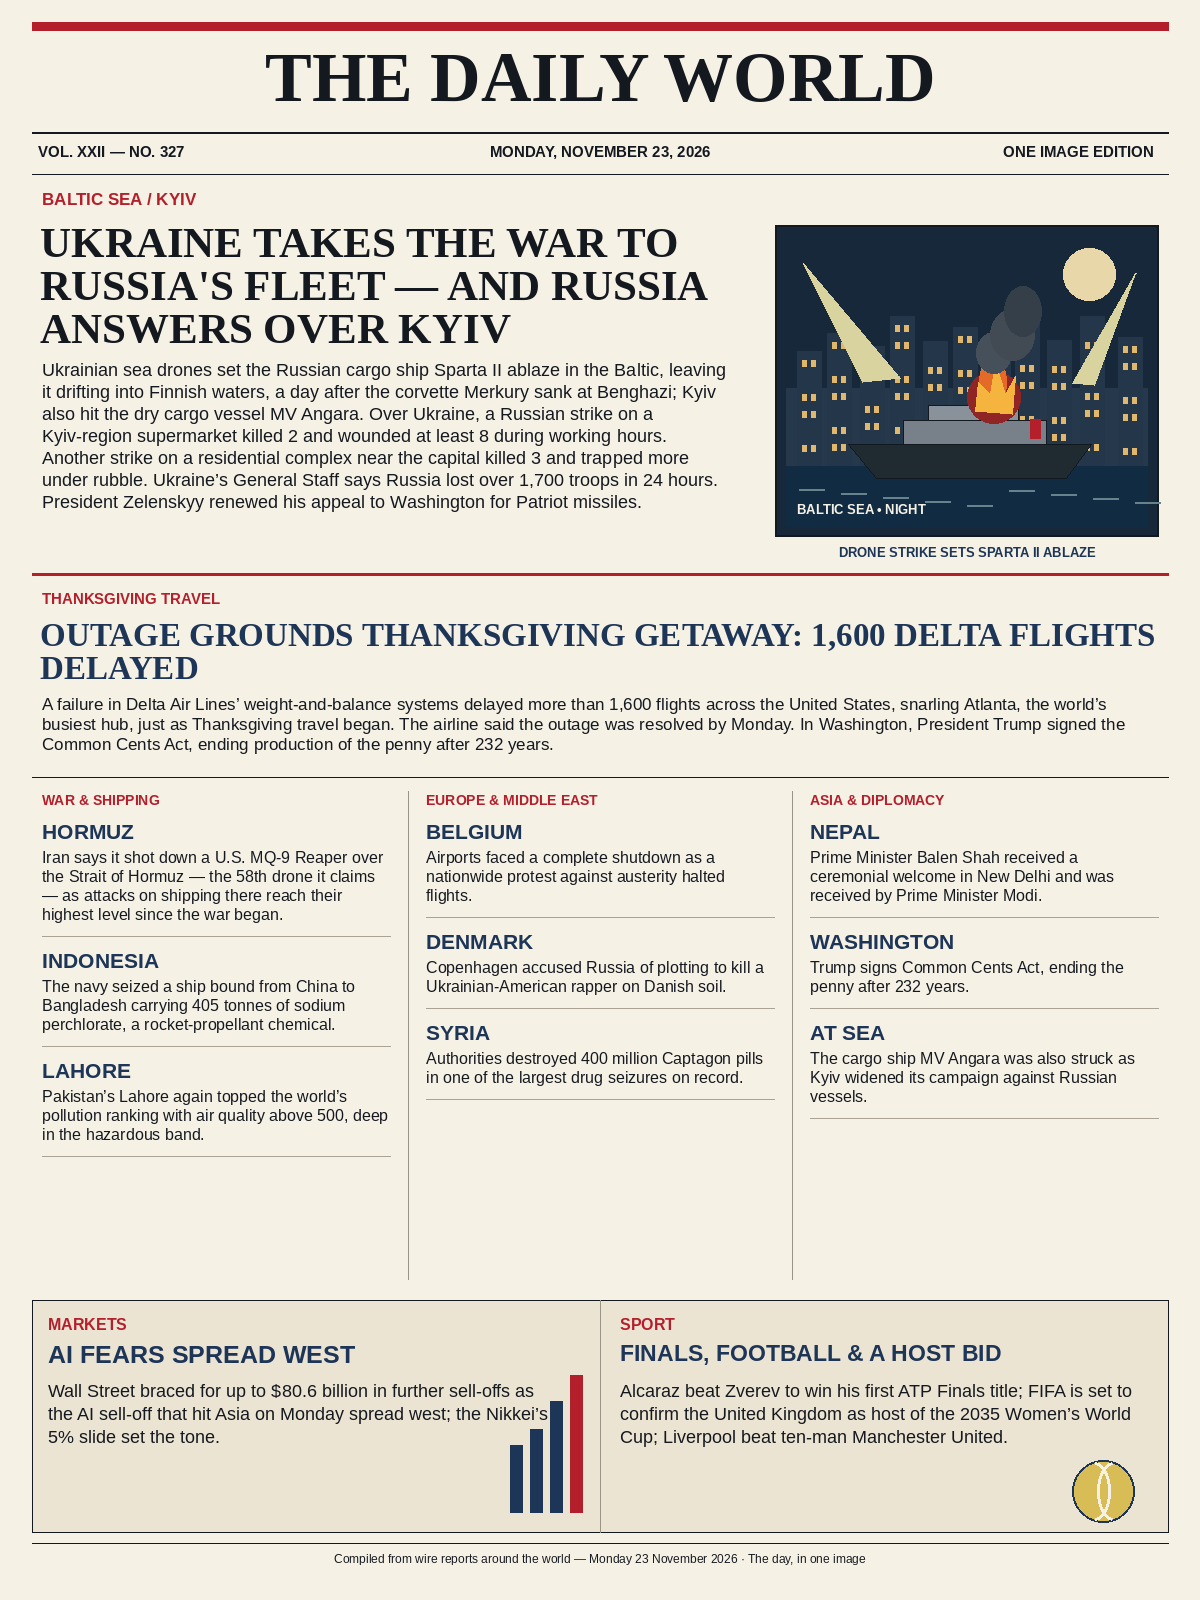
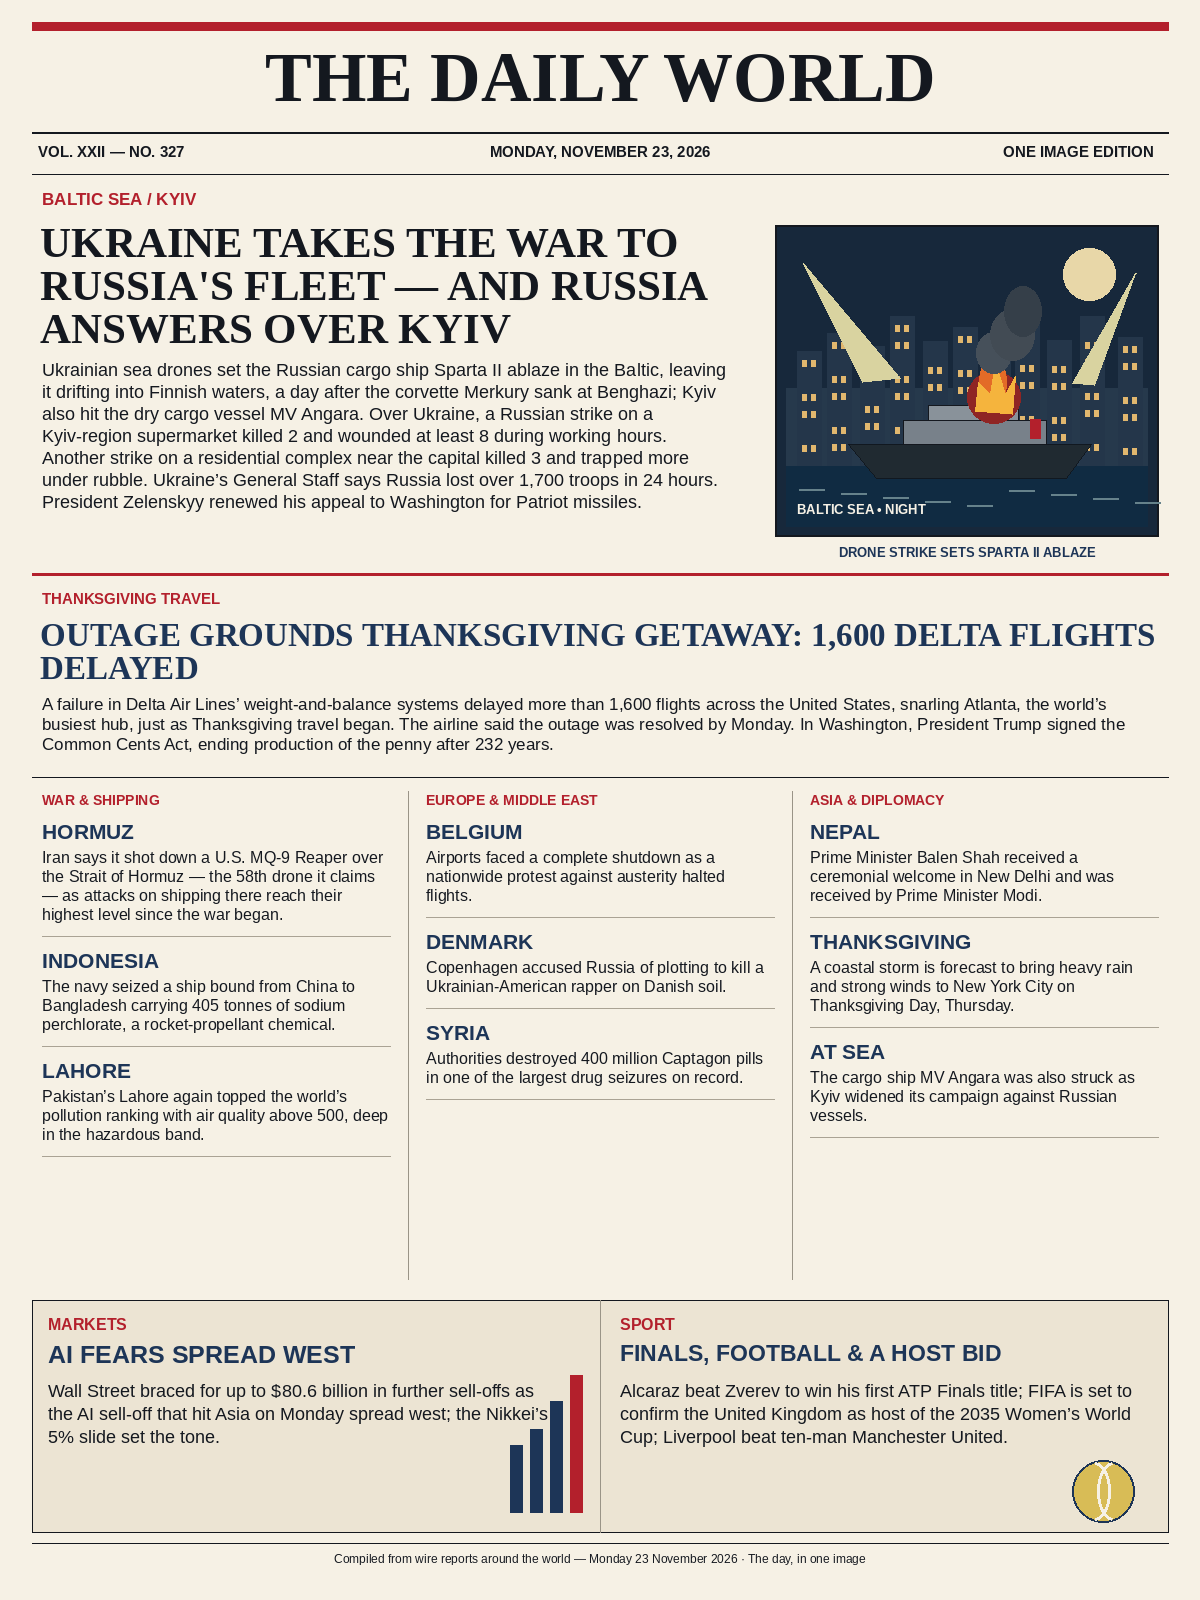
Codex: own main.py + README, replace duplicated penny item with Thanksgiving storm

Changed region(s): [[0.6783, 0.5625, 0.9558, 0.7188]]

diff --git a/compose.py b/compose.py
@@ -108,7 +108,7 @@ briefs = [
      ('DENMARK', 'Copenhagen accused Russia of plotting to kill a Ukrainian-American rapper on Danish soil.'),
      ('SYRIA', 'Authorities destroyed 400 million Captagon pills in one of the largest drug seizures on record.')],
     [('NEPAL', 'Prime Minister Balen Shah received a ceremonial welcome in New Delhi and was received by Prime Minister Modi.'),
-     ('WASHINGTON', 'Trump signs Common Cents Act, ending the penny after 232 years.'),
+     ('THANKSGIVING', 'A coastal storm is forecast to bring heavy rain and strong winds to New York City on Thanksgiving Day, Thursday.'),
      ('AT SEA', 'The cargo ship MV Angara was also struck as Kyiv widened its campaign against Russian vessels.')]
 ]
 labels = ['WAR & SHIPPING', 'EUROPE & MIDDLE EAST', 'ASIA & DIPLOMACY']

diff --git a/main.py b/main.py
@@ -1,8 +1,17 @@
+"""Copy this edition's image into the configured output directory."""
+
 import os
 import shutil
 from pathlib import Path
 
-source = Path(__file__).with_name('entry.png')
-out = os.environ.get('MAKEFUN_OUTPUT_DIR', '/output')
-os.makedirs(out, exist_ok=True)
-shutil.copyfile(source, Path(out) / 'entry.png')
+
+def main():
+    """Copy entry.png from this program's directory to the output folder."""
+    folder = Path(__file__).resolve().parent
+    output = Path(os.environ.get("MAKEFUN_OUTPUT_DIR", "/output"))
+    output.mkdir(parents=True, exist_ok=True)
+    shutil.copy2(folder / "entry.png", output / "entry.png")
+
+
+if __name__ == "__main__":
+    main()

diff --git a/README.md b/README.md
@@ -4,6 +4,6 @@
 
 # The Daily World — Monday, 23 November 2026
 
-A [make.fun news-image-20261123](https://make.fun/bounty/news-image-20261123) entry: one image that sums up the world's news of Monday 23 November 2026 — Ukraine's drone campaign against Russia's fleet from the Baltic to Benghazi, the strikes over Kyiv, the Delta outage that snarled Thanksgiving travel, the end of the penny, and the rest of the day, drawn as a broadsheet front page.
+This newspaper front page turns the headlines of 23 November 2026 into one image: Ukraine’s drone campaign against Russia’s fleet, the strikes near Kyiv, a Delta systems outage disrupting Thanksgiving travel, and the end of the penny.
 
-Run: `python3 main.py` — copies `entry.png` to the output directory (`/output` or `$MAKEFUN_OUTPUT_DIR`). `compose.py` is the Pillow program that drew `entry.png`.
+`main.py` copies `entry.png` to the output directory; `compose.py` is the Pillow program that drew the page.
